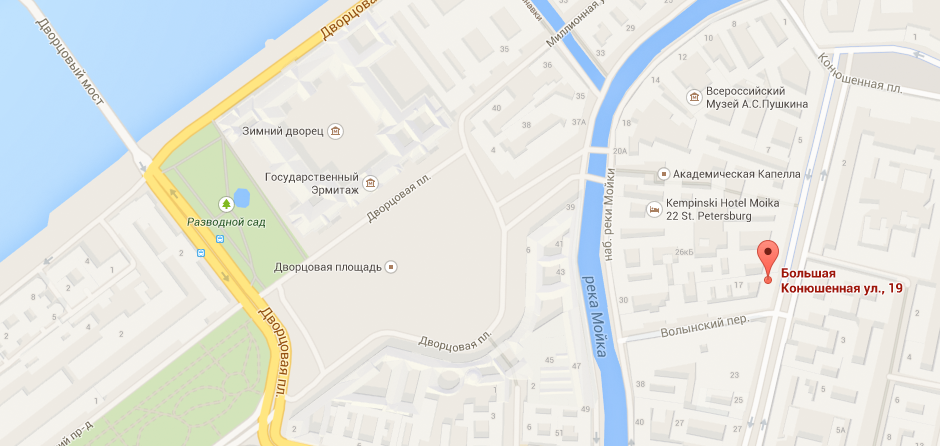
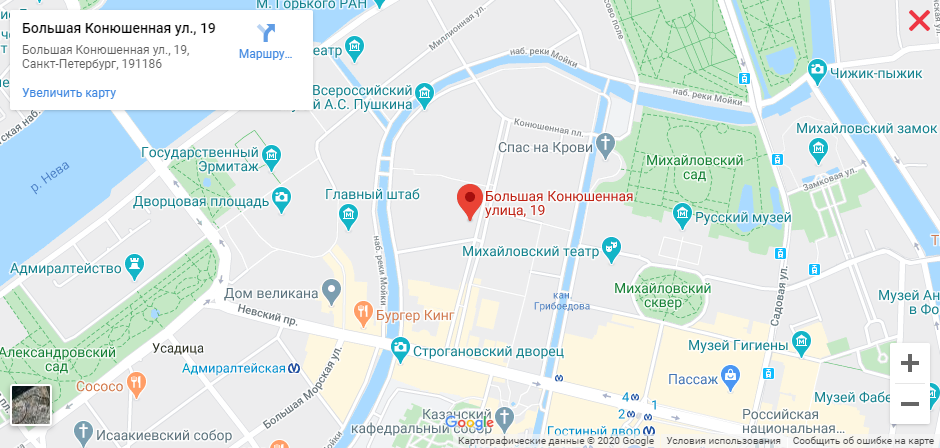
Remaked js-files

diff --git a/index.html b/index.html
@@ -302,9 +302,9 @@
             <p>Вы можете забрать товар сами, <br>
                 заехав в наш офис:
             </p>
-            <button type="button" class="btn-map" id="modal_map_btn"><img src="img/min-map.png" width="300" height="158" alt="Как проехать до нашего офиса"></button>
+            <button type="button" class="btn-map" id="modal_map_btn"></button>
             <br>
-            <button type="button" class="btn-red" id="modal_writeus_btn">Заблудились? Напишите нам!</button>
+            <button type="button" class="btn-red btn-writeus" id="modal_writeus_btn">Заблудились? Напишите нам!</button>
           </seciton>
         </div>
       </div>
@@ -363,10 +363,10 @@
         </div>
       </div>
     </footer>
-    <section class="modal modal-writeus visually-hidden" id="modal_writeus">
+    <section class="modal modal-writeus" id="modal_writeus">
       <div class="wrapper">
         <h2 class="visually-hidden">Напишите нам</h2>
-        <button type="button" class="modal-btn-close" id="modal_writeus_btn_close"><span class="visually-hidden">Закрыть всплывающее окно</span></button>
+        <button type="button" class="modal-btn-close modal-btn-close-writeus" id="modal_writeus_btn_close"><span class="visually-hidden">Закрыть всплывающее окно</span></button>
         <div class="modal-writeus__wrapper">
           <form action="https://echo.htmlacademy.ru" method="post">
           <div class="modal-writeus__left">
@@ -388,12 +388,17 @@
       </div>
           </form>
     </section>
-    <section class="modal modal-map visually-hidden" id="modal_map">
+    <section class="modal modal-map" id="modal_map">
       <div>
         <button type="button" class="modal-btn-close" id="modal_map_btn_close"><span class="visually-hidden">Закрыть всплывающее окно</span></button>
-        <img src="img/big-map.png" width="940" height="477" alt="Наш офис находится по адресу: г. Санкт-Петербург, ул. Большая Конюшенная, дом 19/8">
+        <iframe src="https://www.google.com/maps/embed?pb=!1m18!1m12!1m3!1d3355.3347124211355!2d30.317881569828973!3d59.93954155240167!2m3!1f0!2f0!3f0!3m2!1i1024!2i768!4f13.1!3m3!1m2!1s0x4696310fca5ba729%3A0xea9c53d4493c879f!2z0JHQvtC70YzRiNCw0Y8g0JrQvtC90Y7RiNC10L3QvdCw0Y8g0YPQuy4sIDE5LCDQodCw0L3QutGCLdCf0LXRgtC10YDQsdGD0YDQsywgMTkxMTg2!5e0!3m2!1sru!2sru!4v1582279585254!5m2!1sru!2sru" width="940" height="448" frameborder="0" style="border:0;" allowfullscreen=""></iframe>
+        <p>
+          <img src="img/big-map.png" width="940" height="452" alt="Наш офис находится по адресу: г. Санкт-Петербург, ул. Большая Конюшенная, дом 19/8">
+        </p>
       </div>
     </section>
-    <script src="js/script.js"></script>
+    <script src="js/modal-writeus.js"></script>
+    <script src="js/modal-map.js"></script>
+    <script src="js/services.js"></script>
   </body>
 </html>

diff --git a/js/modal-writeus.js b/js/modal-writeus.js
@@ -5,6 +5,7 @@ let form = popup.querySelector("form");
 let name = popup.querySelector("[name=name]");
 let email = popup.querySelector("[name=email]");
 let message = popup.querySelector("[name=message");
+
 let isStorageSupport = true;
 let storageName = "";
 let storageEmail = "";
@@ -71,44 +72,3 @@ window.addEventListener("keydown", function (evt){
 // document.getElementById('modal_writeus_btn_close').onclick = function() {
 //     document.getElementById('modal_writeus').classList.add('visually-hidden');
 // }
-
-// Появление модального окна modal-map
-document.getElementById('modal_map_btn').onclick = function() {
-    document.getElementById('modal_map').classList.remove('visually-hidden');
-}
-// Скрытие модального окна modal-map
-document.getElementById('modal_map_btn_close').onclick = function() {
-    document.getElementById('modal_map').classList.add('visually-hidden');
-}
-
-// Преключение стилей кнопок секции "Сервисы"
-var buttons = document.querySelectorAll('.features__bottom__buttons__btn');
-
-for (var button of buttons) {
-   button.addEventListener('click', function () {
-     buttons.forEach(i => i.classList.remove('features__bottom__buttons__btn-active'));
-   
-     this.classList.toggle('features__bottom__buttons__btn-active');
-   });
-};
-
-// Слайдер секции "Сервисы"
-var featuresText = document.querySelector('.features__bottom__text');
-
-document.getElementById('features_delivery_btn').onclick = function() {
-    document.getElementById('features_delivery').classList.remove('visually-hidden');
-    document.getElementById('features_guarantee').classList.add('visually-hidden');
-    document.getElementById('features_credit').classList.add('visually-hidden');
-}
-
-document.getElementById('features_guarantee_btn').onclick = function() {
-    document.getElementById('features_delivery').classList.add('visually-hidden');
-    document.getElementById('features_guarantee').classList.remove('visually-hidden');
-    document.getElementById('features_credit').classList.add('visually-hidden');
-}
-
-document.getElementById('features_credit_btn').onclick = function() {
-    document.getElementById('features_delivery').classList.add('visually-hidden');
-    document.getElementById('features_guarantee').classList.add('visually-hidden');
-    document.getElementById('features_credit').classList.remove('visually-hidden');
-}

diff --git a/css/stlye.css b/css/stlye.css
@@ -1,3 +1,44 @@
+@keyframes bounce {
+    0% {
+        transform: translateY(-2000px);
+    }
+
+    70% {
+        transform: translateY(30px);
+    }
+
+    90% {
+        transform: translateY(-10px);
+    }
+
+    100% {
+        transform: translateY(0);
+    }
+}
+
+
+@keyframes shake {
+    0%,
+    100% {
+        transform: translateX(0);
+    }
+
+    10%,
+    30%,
+    50%,
+    70%,
+    90% {
+        transform: translateX(-2px);
+    }
+
+    20%,
+    40%,
+    60%,
+    80% {
+        transform: translateX(2px);
+    }
+}
+
 html {
     box-sizing: border-box; 
 }
@@ -1028,8 +1069,8 @@ input[type=search] + label:hover::before {
 .features__shadow {
     position: absolute;
     right: 0;
-    top: -15%;
-    z-index: 10;
+    top: -25%;
+    z-index: 2;
     width: 10px;
     height: 279px;
     background: url('../img/btns-shadow.png') 100% 50% no-repeat;
@@ -2168,17 +2209,28 @@ input[type=search] + label:hover::before {
     position: fixed;
     top: 50%;
     left: 50%;
-    z-index: 100;
+    z-index: 5;
+    display: none;
     width: 620px;
     max-width: 100%;
     max-height: 100%;
     background-color: #fff;
-    transform: translate(-50%, -50%);
+}
+
+.modal-show {
+    display: block;
+    animation: bounce 0.6s;
+}
+
+.modal-error {
+    animation: shake 0.6s;
 }
 
 .modal-writeus {
     min-width: 620px;
     min-height: 424px;
+    margin-left: -310px;
+    margin-top: -230px;
     font-size: 18px;
     box-shadow: 0 10px 15px 1px rgba(0,0,0,0.5),
                 0 -7px 0 0 #ff5357;
@@ -2257,5 +2309,25 @@ input[type=search] + label:hover::before {
 .modal-map {
     min-width: 940px;
     min-height: 448px;
+    margin-left: -470px;
+    margin-top: -224px;
     box-shadow: 0 0 15px 1px rgba(0,0,0,0.5);
+}
+
+.modal-map div {
+    position: relative;
+}
+
+.modal-map p {
+    position: absolute;
+    z-index: -1;
+    top: 0;
+    left: 0;
+    margin: 0;
+    padding: 0;
+}
+
+.modal-map iframe { 
+    z-index: 2;
+    border: none;
 }

diff --git a/js/services.js b/js/services.js
@@ -1,0 +1,31 @@
+// Преключение стилей кнопок секции "Сервисы"
+var buttons = document.querySelectorAll('.features__bottom__buttons__btn');
+
+for (var button of buttons) {
+   button.addEventListener('click', function () {
+     buttons.forEach(i => i.classList.remove('features__bottom__buttons__btn-active'));
+   
+     this.classList.toggle('features__bottom__buttons__btn-active');
+   });
+};
+
+// Слайдер секции "Сервисы"
+var featuresText = document.querySelector('.features__bottom__text');
+
+document.getElementById('features_delivery_btn').onclick = function() {
+    document.getElementById('features_delivery').classList.remove('visually-hidden');
+    document.getElementById('features_guarantee').classList.add('visually-hidden');
+    document.getElementById('features_credit').classList.add('visually-hidden');
+}
+
+document.getElementById('features_guarantee_btn').onclick = function() {
+    document.getElementById('features_delivery').classList.add('visually-hidden');
+    document.getElementById('features_guarantee').classList.remove('visually-hidden');
+    document.getElementById('features_credit').classList.add('visually-hidden');
+}
+
+document.getElementById('features_credit_btn').onclick = function() {
+    document.getElementById('features_delivery').classList.add('visually-hidden');
+    document.getElementById('features_guarantee').classList.add('visually-hidden');
+    document.getElementById('features_credit').classList.remove('visually-hidden');
+}

diff --git a/js/modal-map.js b/js/modal-map.js
@@ -1,0 +1,35 @@
+let mapButtonOpen = document.querySelector(".btn-map");
+let mapPopup = document.querySelector(".modal-map");
+let mapButtonClose = mapPopup.querySelector(".modal-btn-close");
+
+
+mapButtonOpen.addEventListener("click", function (evt) {
+    evt.preventDefault();
+    mapPopup.classList.add("modal-show");
+})
+
+mapButtonClose.addEventListener("click", function (evt) {
+    evt.preventDefault();
+    mapPopup.classList.remove("modal-show");
+})
+
+// Закрытие модального окна если нажата клавиша Esc
+window.addEventListener("keydown", function (evt){
+    if (evt.keyCode === 27) {
+        evt.preventDefault();
+        if (mapPopup.classList.contains("modal-show")) { // Если у модального окна есть класс "modal-show"
+            mapPopup.classList.remove("modal-show"); // Удалить класс "modal-show"
+        }
+    }
+})
+
+
+// // Появление модального окна modal-map
+// document.getElementById('modal_map_btn').onclick = function() {
+//     document.getElementById('modal_map').classList.remove('visually-hidden');
+// }
+// // Скрытие модального окна modal-map
+// document.getElementById('modal_map_btn_close').onclick = function() {
+//     document.getElementById('modal_map').classList.add('visually-hidden');
+// }
+
